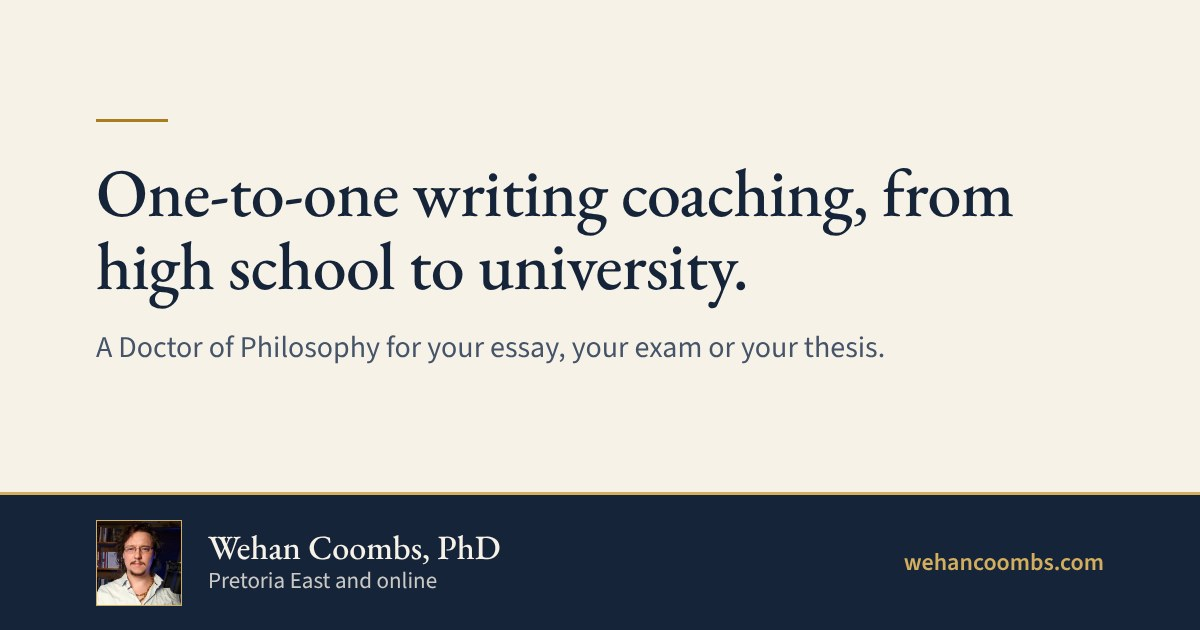
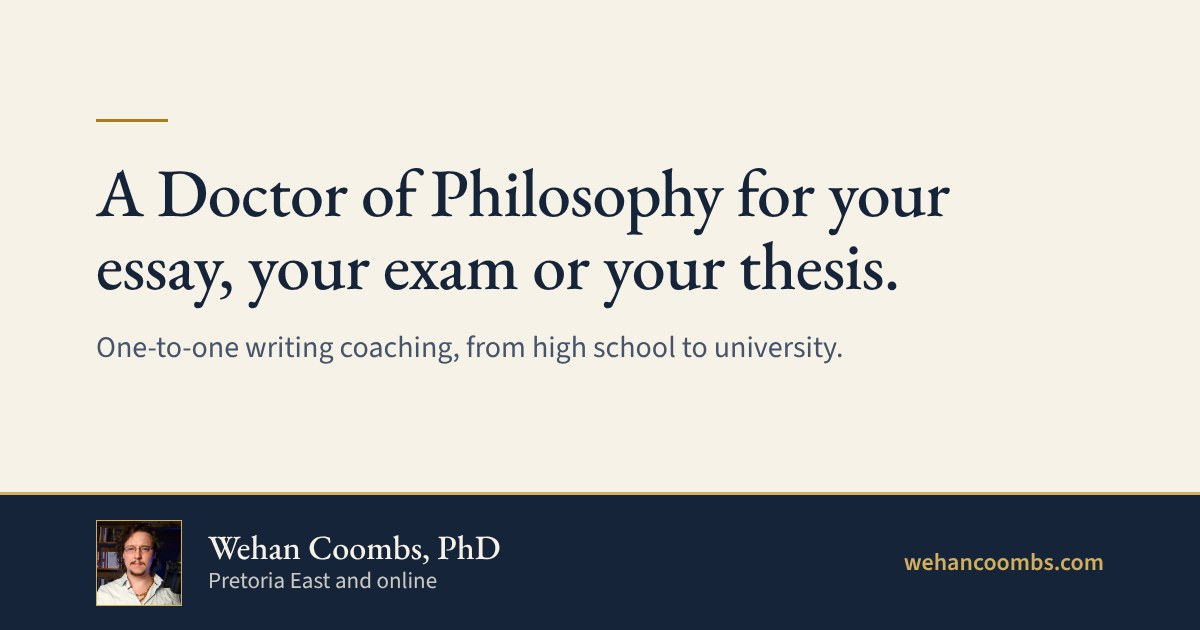
Publish the feedback round; home headline restored
Published on Wehan's word. Laptop sizing, name with PhD, talks fees from,
centred comment arrows, tutoring wording, clearer steps. The home headline
swap is reversed at his request.

Claude-Session: https://claude.ai/code/session_01RRGvpyg4jK2XDJuLnmibXz

Changed region(s): [[0.0617, 0.2714, 0.8633, 0.5127], [0.0617, 0.5127, 0.74, 0.573]]

diff --git a/index.html b/index.html
@@ -5,8 +5,8 @@
 <meta name="viewport" content="width=device-width, initial-scale=1">
 <meta name="color-scheme" content="light">
 <title>Wehan Coombs, PhD: English and writing coaching, Pretoria East and online</title>
-<meta name="description" content="One-to-one writing coaching, from high school to university. A Doctor of Philosophy for your essay, your exam or your thesis. In person in Pretoria East, or online. From R400 an hour.">
-<meta property="og:title" content="One-to-one writing coaching, from high school to university.">
+<meta name="description" content="A Doctor of Philosophy for your essay, your exam or your thesis. One-to-one writing coaching, from high school to university. In person in Pretoria East, or online. From R400 an hour.">
+<meta property="og:title" content="A Doctor of Philosophy for your essay, your exam or your thesis.">
 <meta property="og:description" content="One-to-one writing coaching with Wehan Coombs, PhD, from high school to university. In person in Pretoria East, or online. From R400 an hour.">
 <meta property="og:image" content="https://wehancoombs.com/share.jpg">
 <meta property="og:image:width" content="1200">
@@ -87,8 +87,8 @@
 
   <section class="hero">
     <div class="wrap">
-      <h1>One-to-one writing coaching, from high school to university.</h1>
-      <p class="lede">A Doctor of Philosophy for your essay, your exam or your thesis. In person in Pretoria East, or online.</p>
+      <h1>A Doctor of Philosophy for your essay, your exam or your thesis.</h1>
+      <p class="lede">One-to-one writing coaching, from high school to university. In person in Pretoria East, or online.</p>
       <p class="rates">School English R400 an hour. University work R500 an hour.</p>
       <div class="act">
         <a class="btn" href="https://calendar.app.google/LnQHr42n4ykTqa4ZA" target="_blank" rel="noopener" data-track="book-hero">Book a free consultation</a>

diff --git a/PROGRESS.md b/PROGRESS.md
@@ -1143,3 +1143,10 @@ Source: the Google Doc "Wehan Website Feedback" (17 points, with screenshots) pl
 - **16, talks steps:** "Book a free 20-minute call, or email me: who the session is for, how many people, and when." / "I send the outline, the fee and the date in writing." / "I run the session online, or at your venue from April 2027. Travel is quoted per booking."
 - "I reply within two working days." now sits under the email address in About, on both pages.
 - Still only on the test copy. The live site waits for his "publish".
+
+## 2026-11-19 (19:05): PUBLISHED again, on his word "push": the feedback round
+
+- **Reversed before publishing, on his word:** the home headline swap (feedback point 2). The top sentence is again "A Doctor of Philosophy for your essay, your exam or your thesis.", with "One-to-one writing coaching, from high school to university." under it. He likes it as a hook and will tell the reviewer so. The link-preview picture follows.
+- **Now live from the feedback round:** laptop sizing of the page top (3, 6); "Wehan Coombs, PhD" (4); talks fees "from" (5); centred arrows without the count (9, 15); "English tutoring" and the why-it-suits-English line (8); rewritten How it works on both pages, with the reply line under the email (10, 16).
+- **Rejected or left:** headline change (2); hiding coaching prices (5); selling harder in the coaching pointer (7); "Workshops" naming, still open (11); a "What I offer" section (12); the old portfolio (13); About near the top (14); one long page (17).
+- The previous live version is commit acbdf5a. The old site is still on `old-site`.
